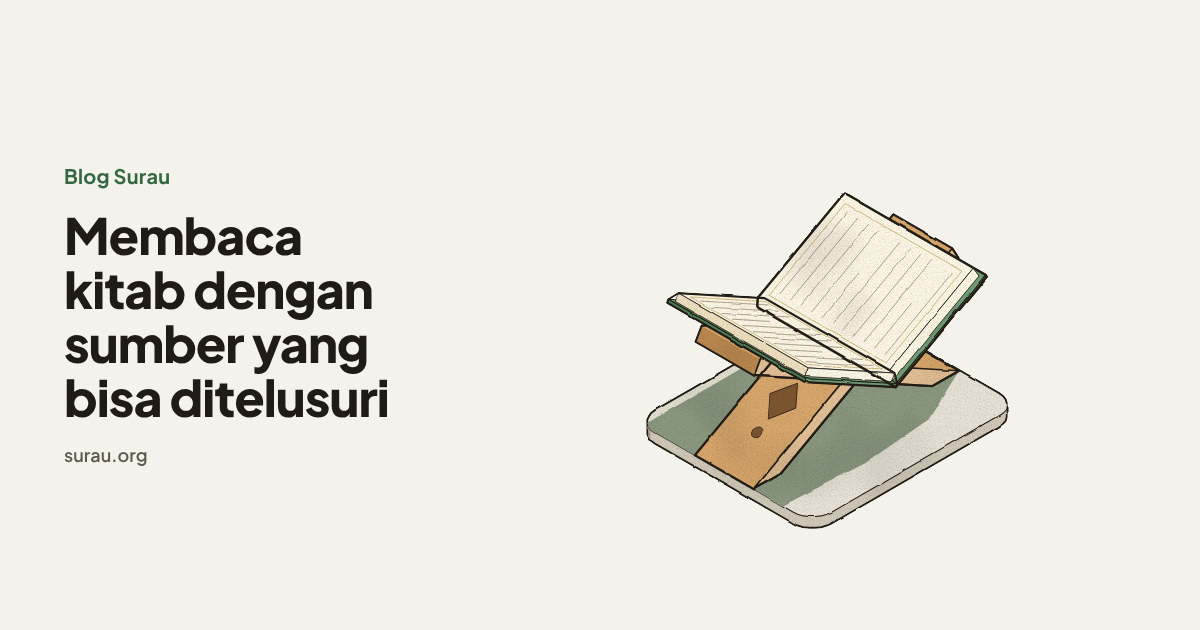
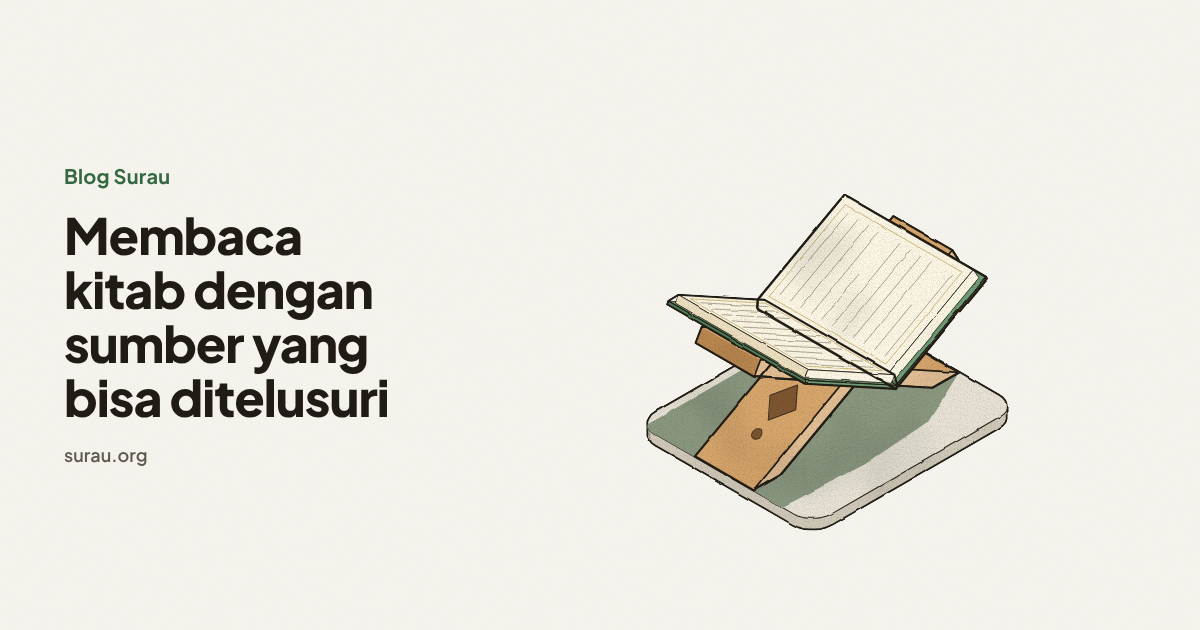
fix(aset): temuan peninjau — deteksi galat potret, resep sematan, parameter aman
- potret.mjs: tangkap pageerror/requestfailed dan figur kosong (kode 2), pesan
  galat peluncuran Chromium yang jelas.
- SKILL.md/ADR-054: header sematan lewat apps/web/public/_headers (Static Assets
  tidak melewati headers() Next), iframe sandbox="allow-scripts", CSP sendiri
  untuk /aset/*; ?pal= didokumentasikan; ukuran PNG dikoreksi.
- core.js: ?pal= hanya kunci milik PALS; komentar usang dibersihkan.
- kitab-rehal: parameter bukan angka diabaikan; REFERENSI dan contoh asli diberi
  catatan lisensi/rujukan.

Claude-Session: https://claude.ai/code/session_01JJBcUKbui4gMX3HoKCPtsM

Changed region(s): [[0.5242, 0.3016, 0.8325, 0.8444], [0.7092, 0.6635, 0.8325, 0.8143], [0.6475, 0.6635, 0.6783, 0.754]]

diff --git a/aset/keluaran/kitab-rehal.html b/aset/keluaran/kitab-rehal.html
@@ -11,7 +11,7 @@
    Mesin aset Surau: turunan Colorfigures (lihat lisensi MIT di bawah dan mesin/LICENSE).
    Proyeksi isometrik, bentuk 3D, bayangan warna datar, tinta, label, dan cangkang halaman.
    Halaman figur memuat file ini (skrip/bangun.mjs menyisipkannya), lalu memanggil mountFigure({...}).
-   Kontrak gambar ada di .claude/skills/aset/SKILL.md.
+   Kontrak gambar ada di .claude/skills/aset/REFERENSI.md; aturan Surau di SKILL.md.
    Satu sudut pandang tetap (depan-kiri-atas) dan satu cahaya tetap.
 
    Perubahan Surau dari Colorfigures asli: palet Zaitun, font Plus Jakarta Sans, teks UI bahasa
@@ -73,7 +73,7 @@ let OX = 0, OY = 0;
    Figures keep modelling in their own coordinates; P / Dv / vis / tone / depthOf all apply the turn. */
 let VIEW = 0, RC = [0, 0];
 const VIEW_NAMES = ['front', 'left side', 'back', 'right side'];
-const TURNS = [0, 2];                 // the views the UI offers: front and back (figures still draw correctly in all four)
+const TURNS = [0, 2];                 // sisa mesin asli (pemutar sudut pandang); UI Surau tidak memutar benda
 const rotV = ([x,y,z]) => { switch (VIEW & 3){ case 1: return [y,-x,z]; case 2: return [-x,-y,z]; case 3: return [-y,x,z]; default: return [x,y,z]; } };
 const rotXY = (x,y) => { const r = rotV([x-RC[0], y-RC[1], 0]); return [r[0]+RC[0], r[1]+RC[1]]; };
 const P0 = (x,y,z) => [(x-y)*C + OX, (x+y)*S - z + OY];                       // raw iso, no turn
@@ -354,7 +354,7 @@ function mountFigure(cfg){
   const st = cfg.state || {};            // kept as the same object, so a figure may hold on to it
   if (!st.pal) st.pal = cfg.palette || 'zaitun';
   if (st.az == null) st.az = 105;
-  if (PALS[q.get('pal')]) st.pal = q.get('pal');
+  if (Object.hasOwn(PALS, q.get('pal') ?? '')) st.pal = q.get('pal');
   if (cfg.params) cfg.params(st, q);
 
   // frame on the object itself: centred, filling ~60% of the width / ~78% of the height of a 4:3 view.
@@ -654,10 +654,12 @@ ui = mountFigure({
   ],
   acts: { kitab: () => st.open >= 1 ? turn() : openBook() },
   params: (st, q) => {
+    // nilai bukan angka diabaikan (berkas ini publik; ?buka=x tidak boleh merusak gambar)
+    const num = (k, lo, hi) => { const v = Number(q.get(k)); return q.has(k) && Number.isFinite(v) ? Math.max(lo, Math.min(hi, v)) : null; };
     if (q.get('tutup') === '1') st.open = 0;
-    if (q.has('buka')) st.open = Math.max(0, Math.min(1, +q.get('buka')));
-    if (q.has('lembar')) st.read = Math.max(0, Math.min(30, +q.get('lembar')));
-    if (q.has('balik')) st.leaf = Math.max(0, Math.min(1, +q.get('balik')));
+    st.open = num('buka', 0, 1) ?? st.open;
+    st.read = Math.round(num('lembar', 0, 30) ?? st.read);
+    st.leaf = num('balik', 0, 1) ?? st.leaf;
   },
 });
 </script>

diff --git a/.claude/skills/aset/mesin/core.js b/.claude/skills/aset/mesin/core.js
@@ -2,7 +2,7 @@
    Mesin aset Surau: turunan Colorfigures (lihat lisensi MIT di bawah dan mesin/LICENSE).
    Proyeksi isometrik, bentuk 3D, bayangan warna datar, tinta, label, dan cangkang halaman.
    Halaman figur memuat file ini (skrip/bangun.mjs menyisipkannya), lalu memanggil mountFigure({...}).
-   Kontrak gambar ada di .claude/skills/aset/SKILL.md.
+   Kontrak gambar ada di .claude/skills/aset/REFERENSI.md; aturan Surau di SKILL.md.
    Satu sudut pandang tetap (depan-kiri-atas) dan satu cahaya tetap.
 
    Perubahan Surau dari Colorfigures asli: palet Zaitun, font Plus Jakarta Sans, teks UI bahasa
@@ -64,7 +64,7 @@ let OX = 0, OY = 0;
    Figures keep modelling in their own coordinates; P / Dv / vis / tone / depthOf all apply the turn. */
 let VIEW = 0, RC = [0, 0];
 const VIEW_NAMES = ['front', 'left side', 'back', 'right side'];
-const TURNS = [0, 2];                 // the views the UI offers: front and back (figures still draw correctly in all four)
+const TURNS = [0, 2];                 // sisa mesin asli (pemutar sudut pandang); UI Surau tidak memutar benda
 const rotV = ([x,y,z]) => { switch (VIEW & 3){ case 1: return [y,-x,z]; case 2: return [-x,-y,z]; case 3: return [-y,x,z]; default: return [x,y,z]; } };
 const rotXY = (x,y) => { const r = rotV([x-RC[0], y-RC[1], 0]); return [r[0]+RC[0], r[1]+RC[1]]; };
 const P0 = (x,y,z) => [(x-y)*C + OX, (x+y)*S - z + OY];                       // raw iso, no turn
@@ -345,7 +345,7 @@ function mountFigure(cfg){
   const st = cfg.state || {};            // kept as the same object, so a figure may hold on to it
   if (!st.pal) st.pal = cfg.palette || 'zaitun';
   if (st.az == null) st.az = 105;
-  if (PALS[q.get('pal')]) st.pal = q.get('pal');
+  if (Object.hasOwn(PALS, q.get('pal') ?? '')) st.pal = q.get('pal');
   if (cfg.params) cfg.params(st, q);
 
   // frame on the object itself: centred, filling ~60% of the width / ~78% of the height of a 4:3 view.

diff --git a/aset/figur/kitab-rehal.html b/aset/figur/kitab-rehal.html
@@ -202,10 +202,12 @@ ui = mountFigure({
   ],
   acts: { kitab: () => st.open >= 1 ? turn() : openBook() },
   params: (st, q) => {
+    // nilai bukan angka diabaikan (berkas ini publik; ?buka=x tidak boleh merusak gambar)
+    const num = (k, lo, hi) => { const v = Number(q.get(k)); return q.has(k) && Number.isFinite(v) ? Math.max(lo, Math.min(hi, v)) : null; };
     if (q.get('tutup') === '1') st.open = 0;
-    if (q.has('buka')) st.open = Math.max(0, Math.min(1, +q.get('buka')));
-    if (q.has('lembar')) st.read = Math.max(0, Math.min(30, +q.get('lembar')));
-    if (q.has('balik')) st.leaf = Math.max(0, Math.min(1, +q.get('balik')));
+    st.open = num('buka', 0, 1) ?? st.open;
+    st.read = Math.round(num('lembar', 0, 30) ?? st.read);
+    st.leaf = num('balik', 0, 1) ?? st.leaf;
   },
 });
 </script>

diff --git a/.claude/skills/aset/contoh/washer.html b/.claude/skills/aset/contoh/washer.html
@@ -1,4 +1,6 @@
 <!doctype html><html lang="en"><head><meta charset="utf-8"><meta name="viewport" content="width=device-width,initial-scale=1"></head><body>
+<!-- Contoh asli Colorfigures (c) 2026 April Zhu, MIT: lihat ../mesin/LICENSE. Ditulis untuk mesin asli
+     (palet dan teks Inggris); untuk membukanya, ganti src="core.js" menjadi "../mesin/core.js". -->
 <script src="core.js"></script>
 <script>
 /* ---------- geometry (x = depth, y = width, z = up) ---------- */

diff --git a/.claude/skills/aset/contoh/vending.html b/.claude/skills/aset/contoh/vending.html
@@ -1,4 +1,6 @@
 <!doctype html>
+<!-- Contoh asli Colorfigures (c) 2026 April Zhu, MIT: lihat ../mesin/LICENSE. Ditulis untuk mesin asli
+     (palet dan teks Inggris); untuk membukanya, ganti src="core.js" menjadi "../mesin/core.js". -->
 <html lang="en">
 <head>
 <meta charset="utf-8">

diff --git a/.claude/skills/aset/SKILL.md b/.claude/skills/aset/SKILL.md
@@ -41,14 +41,14 @@ Kitab (terbuka/tertutup, bertumpuk), rehal, rak kitab, meja lesehan, lampu pelit
 
 | Kebutuhan | Cara | Hasil |
 |---|---|---|
-| **Landing / halaman situs** (interaktif) | `aset/keluaran/<nama>.html` disalin ke `apps/web/public/aset/`, lalu disematkan dengan `<iframe src="/aset/<nama>.html?sematan=1&tema=…" title="…" loading="lazy" style="aspect-ratio:4/3;border:0;width:100%">` | Figur bisa ditekan, latar transparan, mengikuti tema situs |
+| **Landing / halaman situs** (interaktif) | `aset/keluaran/<nama>.html` disalin ke `apps/web/public/aset/`, lalu disematkan dengan `<iframe src="/aset/<nama>.html?sematan=1&tema=…" title="…" loading="lazy" sandbox="allow-scripts" style="aspect-ratio:4/3;border:0;width:100%">` (tanpa `allow-same-origin`, supaya aset tidak bisa menyentuh cookie atau DOM situs) | Figur bisa ditekan, latar transparan, mengikuti tema situs |
 | **Cover blog / Open Graph** | `potret.mjs … --query "sampul=1&kecil=Blog%20Surau&judul=<judul>"` | PNG 1200×630, judul dengan Plus Jakarta Sans |
 | **Konten media sosial** (diam) | `potret.mjs … --query "polos=1&<keadaan>" --lebar 1080 --tinggi 1080 --skala 1` | PNG persegi tanpa tombol |
 | **Artikel blog** (interaktif) | Sama seperti landing, di dalam badan artikel | Pembaca bisa mencoba sendiri |
 
-Parameter bawaan mesin: `?tema=terang|gelap|sepia` (bawaan mengikuti sistem), `?sematan=1`, `?polos=1`, `?sampul=1&judul=…&kecil=…`, `?labels=0`, `?gerak=0` (tanpa animasi), dan `?press=Label@ms,…` (uji). Teks `judul`/`kecil` dipasang lewat `textContent`, sehingga aman dari sisipan HTML. Setiap figur juga sebaiknya membaca keadaannya sendiri lewat `params` (contoh: `?tutup=1`, `?balik=0.5`) supaya keadaan apa pun bisa dipotret.
+Parameter bawaan mesin: `?tema=terang|gelap|sepia` (bawaan mengikuti sistem), `?pal=<kunci PALS>` (palet badan), `?sematan=1`, `?polos=1`, `?sampul=1&judul=…&kecil=…`, `?labels=0`, `?gerak=0` (tanpa animasi), dan `?press=Label@ms,…` (uji). Teks `judul`/`kecil` dipasang lewat `textContent`, sehingga aman dari sisipan HTML. Setiap figur juga sebaiknya membaca keadaannya sendiri lewat `params` (contoh: `?tutup=1`, `?balik=0.5`) supaya keadaan apa pun bisa dipotret.
 
-**Sematan pertama di situs (belum dilakukan, catat ADR saat mengerjakannya):** `next.config.ts` saat ini mengirim `X-Frame-Options: DENY` untuk semua path, sehingga iframe sesama situs pun ditolak. Ubah header khusus `/aset/:path*` menjadi `SAMEORIGIN`, ditambah `Content-Security-Policy: frame-ancestors 'self'`. Teruskan tema situs lewat `?tema=` dari komponen klien (next-themes). Font di dalam iframe saat ini memakai cadangan (Inter/system-ui), jadi sajikan Plus Jakarta Sans secara lokal bila perbedaannya terlihat. Tambahkan kredit di `/lisensi`, satu uji e2e (iframe tampil, tombol bisa ditekan), dan cek axe.
+**Sematan pertama di situs (belum dilakukan, catat ADR saat mengerjakannya):** berkas di `apps/web/public/` disajikan Workers Static Assets **tanpa melewati Worker**, jadi `headers()` di `next.config.ts` tidak berlaku untuk `/aset/*` di produksi (tetapi berlaku di `next dev`, sehingga e2e lokal bisa menipu). Tulis headernya di `apps/web/public/_headers`: aturan `/aset/*` dengan `X-Frame-Options: SAMEORIGIN`, `Content-Security-Policy: frame-ancestors 'self'`, dan `X-Content-Type-Options: nosniff`, lalu periksa header di Preview (`curl -I`). Aset memakai skrip dan `<style>` inline, jadi saat CSP penuh situs dipasang, `/aset/*` butuh CSP sendiri (hash atau `'unsafe-inline'` yang dibatasi ke path itu). Teruskan tema situs lewat `?tema=` dari komponen klien (next-themes). Font di dalam iframe saat ini memakai cadangan (Inter/system-ui), jadi sajikan Plus Jakarta Sans secara lokal bila perbedaannya terlihat. Tambahkan kredit di `/lisensi`, satu uji e2e (iframe tampil, tombol bisa ditekan), dan cek axe.
 
 ## Mutu yang wajib
 

diff --git a/implementasi/KEPUTUSAN.md b/implementasi/KEPUTUSAN.md
@@ -1301,10 +1301,10 @@ MCP Surau menonjolkan nilai-nilai ini. Instruksi server Shamela boleh dipelajari
 4. **Letak berkas:** sumber figur `aset/figur/`, hasil `aset/keluaran/` (HTML mandiri ±46 KiB + PNG). Contoh pertama `kitab-rehal`: kitab di atas rehal yang bisa dibuka, dibalik halamannya (kanan ke kiri, sesuai kitab Arab), dan ditutup, beserta cover blog dan gambar konten persegi.
 5. `vite.config.ts`: mesin, contoh asli, dan `aset/**` dikecualikan dari lint dan format (kode padat bergaya mesin; keluaran adalah hasil bangun).
 
-**Belum dikerjakan (dicatat di skill):** sematan di situs. `next.config.ts` mengirim `X-Frame-Options: DENY` ke semua path, jadi sematan pertama perlu header khusus `/aset/:path*` (`SAMEORIGIN` + `frame-ancestors 'self'`), penerusan tema next-themes lewat `?tema=`, font lokal di dalam iframe bila perbedaannya terlihat, kredit Colorfigures di `/lisensi`, e2e, dan axe. Aset baru dipasang di situs setelah pemilik menyetujui tampilannya.
+**Belum dikerjakan (dicatat di skill):** sematan di situs. Berkas `apps/web/public/` disajikan Workers Static Assets tanpa melewati Worker, jadi `headers()` Next tidak berlaku di produksi; sematan pertama perlu aturan `/aset/*` di `apps/web/public/_headers` (`X-Frame-Options: SAMEORIGIN`, `frame-ancestors 'self'`, `nosniff`, diperiksa di Preview), iframe `sandbox="allow-scripts"`, CSP sendiri untuk `/aset/*` saat CSP penuh situs dipasang, penerusan tema next-themes lewat `?tema=`, font lokal di dalam iframe bila perbedaannya terlihat, kredit Colorfigures di `/lisensi`, e2e, dan axe. Aset baru dipasang di situs setelah pemilik menyetujui tampilannya.
 
 **Ditolak:** memasang skill hanya di `~/.claude/skills` (tidak terlihat oleh sesi cloud dan gayanya tidak terkunci); memakai Colorfigures mentah (palet, font, dan kredit di gambar berbeda-beda per aset); menyalin mesin ke komponen React (aturan menggambar dan global mesin bertabrakan dengan aplikasi; iframe mengisolasinya); PNG statis saja (tidak memenuhi kebutuhan interaktif).
 
-**Konsekuensi:** PNG berbutir kertas cukup besar (cover ±430 KiB, persegi ±690 KiB); bila perlu lebih kecil, potret ke `.jpg`. Mesin tidak mengikuti pembaruan Colorfigures secara otomatis; tarik perubahan secara manual bila dibutuhkan.
+**Konsekuensi:** PNG berbutir kertas cukup besar (cover ±425 KiB, persegi ±800 KiB); bila perlu lebih kecil, potret ke `.jpg`. Mesin tidak mengikuti pembaruan Colorfigures secara otomatis; tarik perubahan secara manual bila dibutuhkan.
 
 **Tinjau ulang bila:** aset pertama disematkan di situs (header, tema, font), pemilik ingin gaya lain, atau Colorfigures merilis perbaikan mesin yang dibutuhkan.

diff --git a/.claude/skills/aset/REFERENSI.md b/.claude/skills/aset/REFERENSI.md
@@ -110,7 +110,7 @@ benda yang tidak dipakai). Contoh Surau: `aset/figur/kitab-rehal.html`.
   wrap them in `act('name', svg)` and handle them in `acts`.
 - Out-of-order presses must do something sensible: run the missing step first, or say why not with
   `ui.flash('the can is empty — refill it')` (a short note under the buttons) or on the object itself (a display, a
-  sign, a blinking light). The status line (`readout`) and `idea` are hidden on the page, so don't rely on them for
+  sign, a blinking light). The status line (`readout`) is only announced to screen readers, so don't rely on it for
   anything the viewer must see. `stats` (big numbers top right) suit a measured quantity: credit, litres, height.
 - Animations: `ui.animate(dt => { ...; return stillRunning; })`, eased, mostly under ~2 s. Anything that must *finish*
   should also be safe if the user presses another button meanwhile (one state object, one source of truth).
@@ -146,7 +146,7 @@ benda yang tidak dipakai). Contoh Surau: `aset/figur/kitab-rehal.html`.
   rotV rotXY P0 P Dv depthOf byDepth f pd sp arcUV rrUV rectUV ellUV PX PY PZ on sub dot cross norm avg vis facing SHADOW_K
   AZ_MIN AZ_MAX SHADOW_LEN L SH setLight LIN tone toneI mix matOf ease ink fill face shape line loft hull hullInk box extrude
   cyl cylX rod txM tx txY castShadow BOARD WOOD boardTop board act tag clipTo INK_REF_VB INK_K inkScale CORE_CSS filterFor
-  mountFigure KERTAS FONT`. Prefix your own short names (`lampS`, `armL`).
+  mountFigure KERTAS FONT _clipN`. Prefix your own short names (`lampS`, `armL`).
 
 ## Shapes that look right
 - **Real proportions.** Before modelling, picture the real object and note its key proportions and where parts attach:
